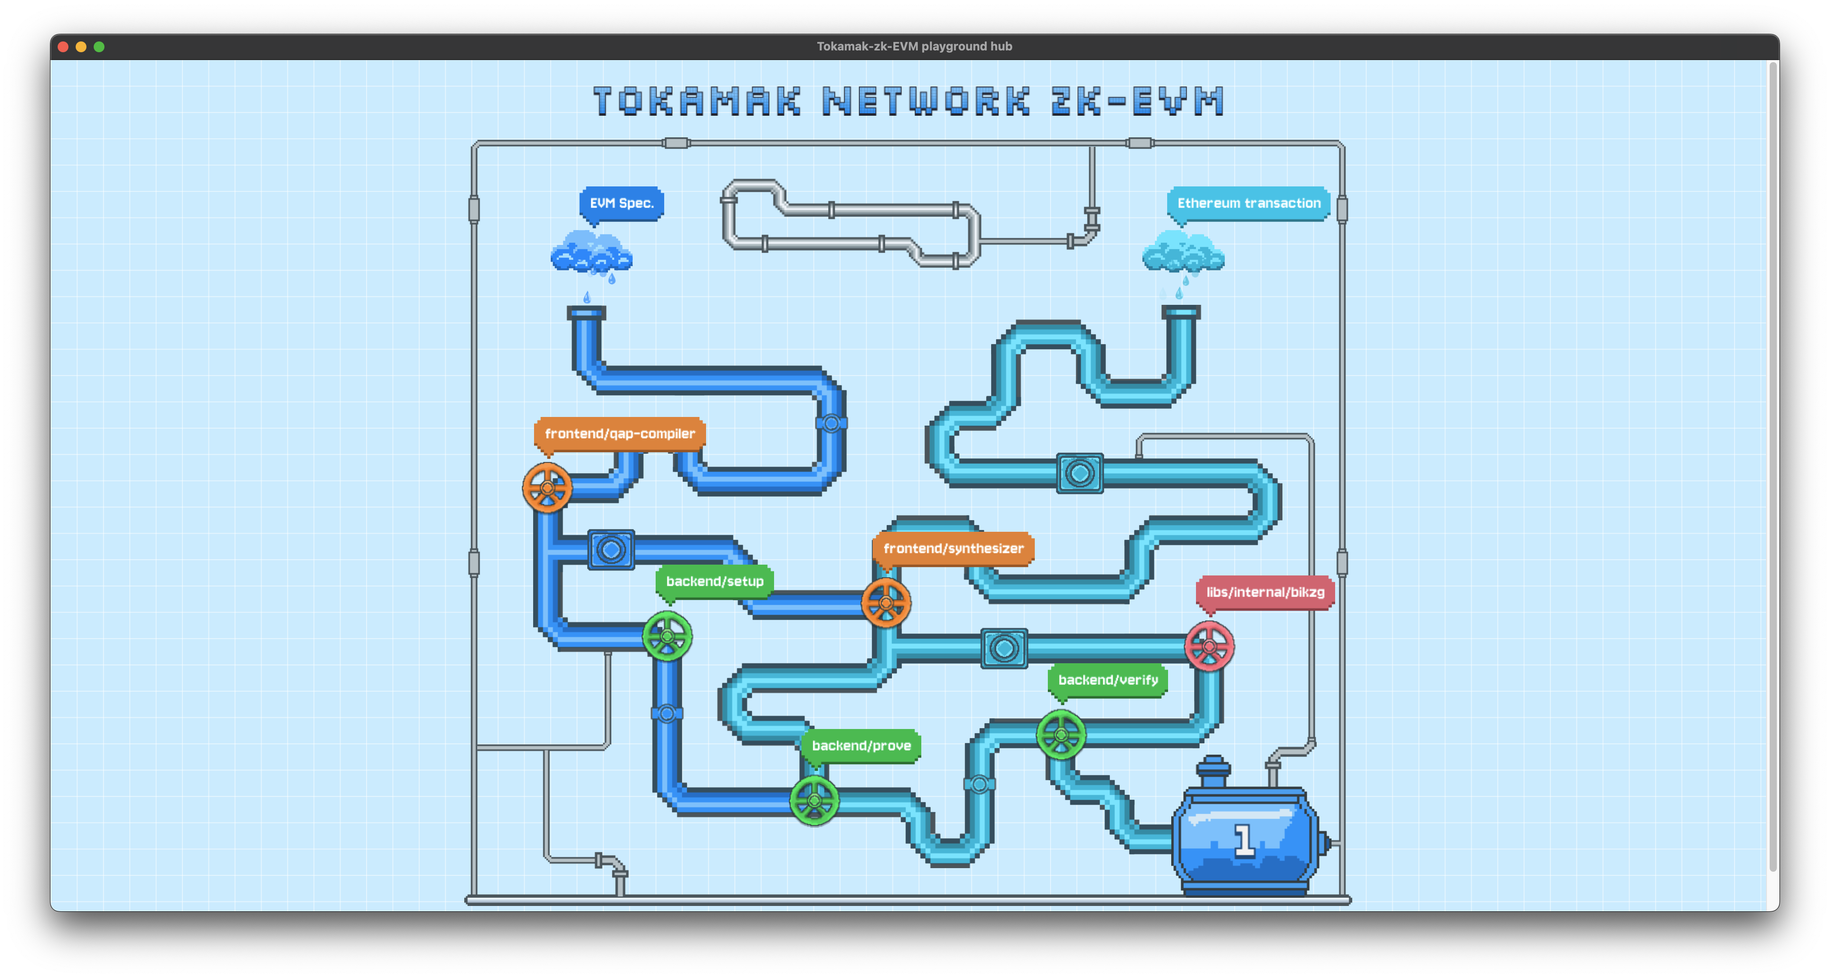
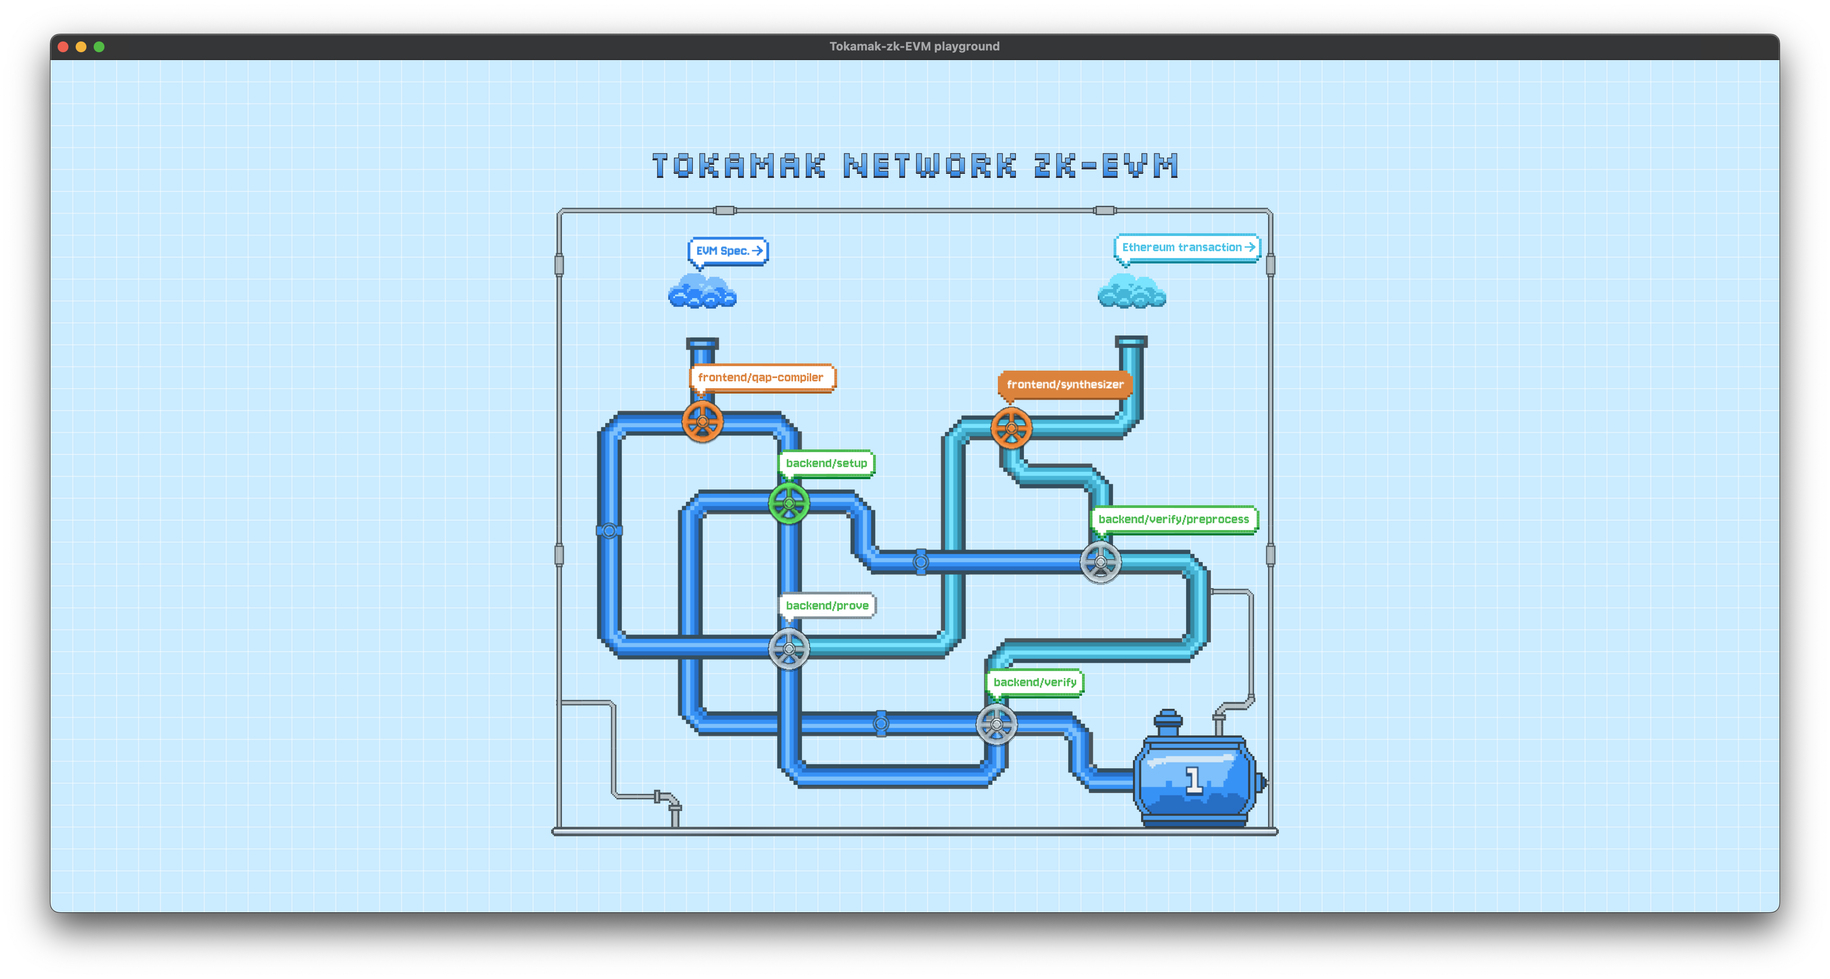
docs: Update README files with new content and images
Updated both the Korean and English README files to reflect the latest UI flow and features of the application.

- **Key Changes:**
  - Overhauled the "How to Use the Program" section to match the new operational sequence.
  - Added new screenshots and enhanced descriptions for features like the loading modal and step-by-step activation order.
  - Refined the overall text to be clearer and easier to follow.

Changed region(s): [[0.25, 0.0308, 0.75, 0.9254], [0.9375, 0.0617, 1.0, 0.9254]]

diff --git a/packages/playground-hub/src/components/animation-pipeline/FillingTank.tsx b/packages/playground-hub/src/components/animation-pipeline/FillingTank.tsx
@@ -27,7 +27,6 @@ export default function FillingTank({
   const active = useMemo(() => {
     return provingIsDone;
   }, [provingIsDone]);
-
   // 애니메이션
   useEffect(() => {
     // active가 true이고 autoFill이 true이며 이미지가 로드되었을 때만 애니메이션 실행
@@ -78,7 +77,7 @@ export default function FillingTank({
 
   return (
     <div
-      className="absolute max-w-full max-h-full object-contain top-[697px] right-[109px] flex items-end justify-end overflow-hidden z-[2]"
+      className="absolute max-w-full max-h-full object-contain top-[695px] right-[111px] flex items-end justify-end overflow-hidden z-[2]"
       style={{ background: "transparent" }}
     >
       <img

diff --git a/packages/playground-hub/src/components/Bubble.tsx b/packages/playground-hub/src/components/Bubble.tsx
@@ -28,7 +28,7 @@ import {
   usePlaygroundStage,
   usePlaygroundStartStage,
 } from "../hooks/usePlaygroundStage";
-import bubbleEvmInactive from "../assets/images/bubbles/bubble-evm-inactive.svg";
+import bubbleEvmInactive from "../assets/images/bubbles/bubble-evm-inactive.png";
 import bubbleTransactionInactive from "../assets/images/bubbles/bubble-transaction-inactive.svg";
 import { useModals } from "../hooks/useModals";
 
@@ -112,6 +112,7 @@ export default function Bubbles() {
   } = usePlaygroundStage();
   const { playgroundStartStage } = usePlaygroundStartStage();
   const { openModal } = useModals();
+
   return (
     <div className="w-full h-full absolute">
       <Bubble

diff --git a/packages/playground-hub/src/hooks/usePlaygroundStage.ts b/packages/playground-hub/src/hooks/usePlaygroundStage.ts
@@ -48,7 +48,7 @@ export function usePlaygroundStage() {
 
   const bikzgStage = useMemo(() => {
     return {
-      isReady: playgroundStage.synthesizer,
+      isReady: playgroundStage.synthesizer && playgroundStage.setup,
       isDone: playgroundStage.bikzg,
     };
   }, [playgroundStage]);

diff --git a/packages/playground-hub/README-ko.md b/packages/playground-hub/README-ko.md
@@ -80,33 +80,33 @@
    ![프로그램 실행 초기 화면](./assets/images/5-4.png)
 5. 클릭 이후 모달이 자동으로 닫히며 구름에서 시작된 파이프라인을 채우는 애니메이션이 다음 단계를 향하기 시작합니다. 해당 애니메이션은 다음 스텝에 해당하는 핸들 부분에 도착하면 종료가 되며, 비활성화돼있던 **frontend/qap-compiler** 말머리 컬러가 활성화되며 해당 스텝이 실행 준비가 됐음을 나타냅니다.
    ![프로그램 실행 초기 화면](./assets/images/5-5.png)
-6. 같은 흐름으로 EVM Transaction을 세팅해보도록 하겠습니다. EVM Spec과 마찬가지로 **Ethereum transaction** 말머리 아래에 위치한 구름을 클릭하면 다음과 같은 모달이 나타납니다. 해당 모달의 입력 영역에는 앞 서 선택한 EVM Spec이 지원하는 성격의 이더리움 트랜잭션 해쉬값을 넣어주어야 합니다.(본 설명은 선택한 Tokamak-zk-EVM이 TON 토큰의 Transfer 함수만 지원한다는 것을 가정하고 설명하겠습니다.)
+6. 같은 흐름으로 EVM Transaction을 세팅해보도록 하겠습니다. EVM Spec과 마찬가지로 **Ethereum transaction** 말머리 아래에 위치한 구름을 클릭하면 다음과 같은 모달이 나타납니다. 해당 모달의 입력 영역에는 앞 서 선택한 EVM Spec이 지원하는 성격의 이더리움 트랜잭션 해쉬값을 넣어주어야 합니다.[이더스캔 페이지](https://etherscan.io/)로 접속을 합니다.
    ![프로그램 실행 초기 화면](./assets/images/5-6.png)
-7. 이더스캔에서 토카막 네트워크 토큰의 트랜잭션을 보여주는 [페이지](https://etherscan.io/token/0x2be5e8c109e2197D077D13A82dAead6a9b3433C5)로 접속을 합니다.
-   ![프로그램 실행 초기 화면](./assets/images/5-7.png)
-8. Method 영역을 통해 각 트랜잭션이 어떤 기능을 수행하기 위해 실행되었는지 확인할 수 있습니다. 이를 통해 **Transfer** 에 해당하는 트랜잭션들을 분류할 수 있습니다.
-   ![프로그램 실행 초기 화면](./assets/images/5-8.png)
-9. Tokamak-zk-EVM을 통해 확인하고 싶은 트랜잭션을 발견하면 Transaction Hash 오른쪽에 위치한 복사 버튼을 통해 해당 트랜잭션의 해쉬 값을 복사합니다.
+7. Tokamak-zk-EVM을 통해 확인하고 싶은 트랜잭션을 발견하면 Transaction Hash 오른쪽에 위치한 복사 버튼을 통해 해당 트랜잭션의 해쉬 값을 복사합니다.
    ![프로그램 실행 초기 화면](./assets/images/5-9.png)
-10. 복사한 해쉬 값을 모달의 입력 영역에 붙여넣기하고 해당 트랜잭션 해쉬가 현재 Tokamak-zk-EVM으로 증명할 수 있는 트랜잭션이면 다음과 같이 Input 버튼이 활성화가 됩니다.
-    ![프로그램 실행 초기 화면](./assets/images/5-10.png)
-    10-1. 혹시 복사한 해쉬값이 올바르지 않으면 다음과 같은 에러가 나타나며 Input 버튼이 활성화되지 않습니다. 기타 다른 문제들의 경우에도 버튼이 활성화되지않으며 각 문제에 해당하는 메세지가 동일한 영역에 노출되게 됩니다.  
-    ![프로그램 실행 초기 화면](./assets/images/5-11.png)
-11. Input 버튼이 활성화된 상태에서 버튼을 클릭하면 모달이 닫히며 이전과 같은 형태의 애니메이션이 시작됩니다. fontend/synthesizer의 경우, 방금 작동시킨 이더리움 트랜잭션과 frontend/qap-compiler의 작동이 모두 필요하기에 비활성화된 모습을 볼 수 있습니다. frontend/synthesizer를 작동시키기 위해 먼저 활성화가 되어있는 frontend/qap-compiler의 핸들 부분을 클릭해 실행하도록 하겠습니다.
-    ![프로그램 실행 초기 화면](./assets/images/5-12.png)
-12. frontend/qap-compiler의 실행이 완료되면 **frontend/synthesizer**와 **backend/setup**이 모두 활성화된 것을 보실 수 있습니다. 활성화된 핸들들은 어떤 것을 먼저 실행해도 무방합니다. 이 문서에는 frontend/synthesizer를 먼저 실행해보도록 하겠습니다.
+8. 복사한 해쉬 값을 모달의 입력 영역에 붙여넣기하고 해당 트랜잭션 해쉬가 현재 Tokamak-zk-EVM으로 증명할 수 있는 트랜잭션이면 다음과 같이 Input 버튼이 활성화가 됩니다.
+   ![프로그램 실행 초기 화면](./assets/images/5-10.png)
+   8-1. 혹시 복사한 해쉬값이 올바르지 않으면 다음과 같은 에러가 나타나며 Input 버튼이 활성화되지 않습니다. 기타 다른 문제들의 경우에도 버튼이 활성화되지않으며 각 문제에 해당하는 메세지가 동일한 영역에 노출되게 됩니다.  
+   ![프로그램 실행 초기 화면](./assets/images/5-11.png)
+9. Input 버튼이 활성화된 상태에서 버튼을 클릭하면 모달이 닫히며 이전과 같은 형태의 애니메이션이 시작됩니다. 애니메이션이 완료되면 frontend/qap-compiler와 frontend/synthesizer의 핸들들이 모두 활성화된 것을 보실 수 있습니다. 활성화 된 핸들은 어떤 것을 먼저 실행해도 무방합니다. 이 문서에서는 qap-compiler를 먼저 실행해보도록 하겠습니다.
+   ![프로그램 실행 초기 화면](./assets/images/5-12.png)
+10. frontend/qap-compiler의 실행이 완료되면 **frontend/synthesizer**와 **backend/setup**이 모두 활성화된 것을 보실 수 있습니다. 이어서 frontend/synthesizer를 먼저 실행해보겠습니다. (실행에 다소 시간이 걸리는 프로세스들의 경우, 아래와 같은 로딩 모달이 나타나며 해당 프로세스 처리가 모두 완료될 경우 자동으로 모달이 닫히며 애니메이션 재생이 계속 됩니다.)
     ![프로그램 실행 초기 화면](./assets/images/5-13.png)
-13. frontend/synthesizer의 실행이 끝나면 **libs/internal/bikzg**가 활성화 됐음을 볼 수 있습니다. 해당 부분의 실행에 앞 서 backend/setup 쪽을 먼저 진행하도록 하겠습니다. 다시 한 번 말하지만 활성화된 핸들은 순서와 무관하게 실행할 수 있으므로 libs/internal/bikzg를 먼저 실행해보고 싶다면 실행해도 무방합니다.
+    ![프로그램 로딩 화면](./assets/images/5-13-1.png)
+11. frontend/synthesizer의 실행이 끝나면 그 이후 단계들은 **backend/setup**이 함께 이루어져야 함을 파이프라인들을 통해 유추할 수 있습니다. 현재 유일하게 활성화 된 backend/setup 쪽을 먼저 진행하도록 하겠습니다.
     ![프로그램 실행 초기 화면](./assets/images/5-14.png)
-14. backend/setup이 완료되면 **backend/prove**가 활성화됩니다. 실제로 이 setup에 해당하는 프로세스는 상당한 시간이 소요되나, 앞에서 다운로드 받은 도커 이미지를 통해 해당 셋업이 모두 이루어져 있는 상태입니다. 그렇기에 플레이그라운드 내에서는 시간이 거의 소요되지 않으며 빠르게 실행이 완료되는 모습을 확인하실 수 있습니다.
+12. backend/setup이 완료되면 **backend/prove**가 활성화됩니다. 실제로 이 setup에 해당하는 프로세스는 상당한 시간이 소요되나, 앞에서 다운로드 받은 도커 이미지를 통해 해당 셋업이 모두 이루어져 있는 상태입니다. 그렇기에 플레이그라운드 내에서는 시간이 거의 소요되지 않으며 빠르게 실행이 완료되는 모습을 확인하실 수 있습니다.
     ![프로그램 실행 초기 화면](./assets/images/5-15.png)
-15. backend/setup이 완료되면 최종 액션인 Verify 실행을 위한 두 가지 패키지 모두 실행 준비 되었음을 확인할 수 있습니다. 먼저 libs/internal/bikzg를 실행합니다.
+13. backend/setup이 완료되면 최종 액션인 Verify 실행을 위한 두 가지 패키지 모두 실행 준비 되었음을 확인할 수 있습니다. 먼저 backend/preprocess를 실행합니다.
+    ![프로그램 로딩 화면](./assets/images/5-16-1.png)
     ![프로그램 실행 초기 화면](./assets/images/5-16.png)
-16. 이어서 backend/prove를 실행하면 다음과 같이 **backend/verify**가 활성화됩니다. prove를 작동시키면 앞에서 저희가 선택한 이더리움의 트랜잭션이 Tokamak-zk-EVM을 통해 어떻게 분석이 되는지 최종 결과를 확인할 수 있습니다.
+14. 이어서 backend/prove를 실행하면 다음과 같이 **backend/verify**가 활성화됩니다. verify를 작동시키면 앞에서 저희가 선택한 이더리움의 트랜잭션이 Tokamak-zk-EVM을 통해 어떻게 분석이 되는지 최종 결과를 확인할 수 있습니다.
+    ![프로그램 로딩 화면](./assets/images/5-17-1.png)
     ![프로그램 실행 초기 화면](./assets/images/5-17.png)
-17. backend/prove의 작동이 끝나면 이전에 생성한 증거와 이를 검증한 결과에 따라 물탱크가 변하게 됩니다. 앞에서 증거를 올바로 생성했고 검증이 제대로 이루어지면 True를 의미하는 **1**이라는 숫자와 함께 파란색의 물로 물탱크가 채워집니다. 이는 Tokamak-zk-EVM이 올바로 작동했음을 나타냅니다.
+15. backend/prove의 작동이 끝나면 이전에 생성한 증거와 이를 검증한 결과에 따라 물탱크가 변하게 됩니다. 앞에서 증거를 올바로 생성했고 검증이 제대로 이루어지면 True를 의미하는 **1**이라는 숫자와 함께 파란색의 물로 물탱크가 채워집니다. 이는 Tokamak-zk-EVM이 올바로 작동했음을 나타냅니다.
     ![프로그램 실행 초기 화면](./assets/images/5-18.png)
-    17-1. 혹시나 올바르게 작동하지 않았거나 문제가 생겼을 경우 False를 의미하는 0과 함께 하얀색으로 탱크가 채워질 것입니다. 해당하는 경우에는 Tokamak-zk-EVM에 문제가 있을 수 있으므로, 아래 6번 섹션을 활용해 제보를 부탁드립니다!
+    15-1. 혹시나 올바르게 작동하지 않았거나 문제가 생겼을 경우 False를 의미하는 0과 함께 하얀색으로 탱크가 채워질 것입니다. 해당하는 경우에는 Tokamak-zk-EVM에 문제가 있을 수 있으므로, 아래 6번 섹션을 활용해 제보를 부탁드립니다!
+    ![결과가 false인 화면](./assets/images/5-18-1.png)
 
 ## 6. 문제가 생겼나요? (간단한 문제 해결) 🤔
 

diff --git a/packages/synthesizer-playground/README.md b/packages/synthesizer-playground/README.md
@@ -31,12 +31,14 @@ This tool is particularly useful for developers working with the Tokamak ZK-EVM 
 ## Installation
 
 1. Clone the repository:
+
    ```bash
    git clone https://github.com/tokamak-network/tokamak-zk-evm-playgrounds.git
    cd tokamak-zk-evm-playgrounds/packages/synthesizer-playground
    ```
 
 2. Install dependencies:
+
    ```bash
    npm install
    ```
@@ -52,6 +54,7 @@ This tool is particularly useful for developers working with the Tokamak ZK-EVM 
 The application consists of two parts: a Next.js frontend and an Express server for handling the Synthesizer operations.
 
 1. Start the Express server and develop server with a single command:
+
    ```bash
    npm run start:dev
    ```
@@ -66,6 +69,46 @@ The application consists of two parts: a Next.js frontend and an Express server 
    - **Storage Load**: Shows all storage slots read during execution
    - **Logs**: Displays event logs emitted during execution
    - **Storage Store**: Shows all storage slots written during execution
+
+## 5. How to Use the Program (Brief Introduction) 📖
+
+1. If the program runs successfully, you will see a screen like this.
+   ![Program Initial Screen](./assets/images/5-1.png)
+2. Click the cloud located under the **EVM Spec.** heading in the top left corner to display a modal screen like this.  
+   ![Program Initial Screen](./assets/images/5-2.png)
+3. This modal allows you to select one of the various Tokamak-zk-EVM specs supported by the playground. Click the download button to the right of the title to start downloading the Docker image for that spec.
+   ![Program Initial Screen](./assets/images/5-3.png)
+4. Once the download is complete, the download button icon will change to a check icon, indicating that the image is ready. Clicking the Tokamak-zk-EVM text in this state will proceed to the next step.  
+   ![Program Initial Screen](./assets/images/5-4.png)
+5. After clicking, the modal will automatically close, and an animation filling the pipeline will start. The animation will stop when it reaches the handle for the next step, and the previously inactive **frontend/qap-compiler** heading will become colored, indicating it is ready for execution.
+   ![Program Initial Screen](./assets/images/5-5.png)
+6. Let's set up the EVM Transaction in the same flow. Similar to the EVM Spec, click the cloud under the **Ethereum transaction** heading to open a modal. In this modal's input area, you need to enter the hash of an Ethereum transaction that matches the characteristics supported by the previously selected EVM Spec. Go to the [Etherscan page](https://etherscan.io/).
+   ![Program Initial Screen](./assets/images/5-6.png)
+7. Find a transaction you want to verify through the Tokamak-zk-EVM and copy its hash value using the copy button next to the Transaction Hash.
+   ![Program Initial Screen](./assets/images/5-9.png)
+8. Paste the copied hash value into the modal's input area. If the transaction hash is provable by the current Tokamak-zk-EVM, the Input button will be activated as follows.
+   ![Program Initial Screen](./assets/images/5-10.png)
+   8-1. If the copied hash value is incorrect, an error like this will appear, and the Input button will not be activated. For any other issues, the button will also remain inactive, and a message corresponding to the problem will be displayed in the same area.  
+   ![Program Initial Screen](./assets/images/5-11.png)
+9. When the Input button is activated, click it to close the modal, and an animation similar to the previous one will start. Once the animation is complete, you will see that the handles for both frontend/qap-compiler and frontend/synthesizer are activated. You can execute the activated handles in any order. In this guide, we will execute qap-compiler first.
+   ![Program Initial Screen](./assets/images/5-12.png)
+10. Once frontend/qap-compiler has finished, you will see that both **frontend/synthesizer** and **backend/setup** are activated. Next, let's run frontend/synthesizer. (For processes that take some time to execute, a loading modal like the one below will appear. When the process is complete, the modal will automatically close, and the animation will continue.)
+    ![Program Initial Screen](./assets/images/5-13.png)
+    ![Program Loading Screen](./assets/images/5-13-1.png)
+11. After frontend/synthesizer finishes, you can infer from the pipelines that **backend/setup** must also be completed. Let's proceed with the only activated part, backend/setup.
+    ![Program Initial Screen](./assets/images/5-14.png)
+12. Once backend/setup is complete, **backend/prove** is activated. The actual setup process takes a considerable amount of time, but it is already complete within the Docker image you downloaded earlier. Therefore, it runs very quickly inside the playground.
+    ![Program Initial Screen](./assets/images/5-15.png)
+13. Once backend/setup is complete, both packages required for the final action, Verify, are ready for execution. First, run backend/preprocess.
+    ![Program Loading Screen](./assets/images/5-16-1.png)
+    ![Program Initial Screen](./assets/images/5-16.png)
+14. Next, run backend/prove, and you will see **backend/verify** become activated. By running verify, you can see the final result of how the Ethereum transaction you selected is analyzed by the Tokamak-zk-EVM.
+    ![Program Loading Screen](./assets/images/5-17-1.png)
+    ![Program Initial Screen](./assets/images/5-17.png)
+15. After backend/prove completes, the water tank will change based on the generated proof and its verification result. If the proof was generated correctly and verified successfully, the tank will fill with blue water along with the number **1**, signifying "True". This indicates that the Tokamak-zk-EVM has operated correctly.
+    ![Program Initial Screen](./assets/images/5-18.png)
+    15-1. If it did not operate correctly or an issue occurred, the tank will fill with white water along with the number 0, signifying "False". In this case, there may be an issue with the Tokamak-zk-EVM, so please report it using Section 6 below!
+    ![Result False Screen](./assets/images/5-18-1.png)
 
 ## Acknowledgements
 

diff --git a/packages/playground-hub/READMD.md b/packages/playground-hub/READMD.md
@@ -80,14 +80,17 @@ Hello! This document guides you on how to install and run **Tokamak-zk-evm-playg
    ![Program Initial Screen](./assets/images/5-4.png)
 5. After clicking, the modal automatically closes, and an animation begins to fill the pipeline starting from the cloud towards the next step. The animation ends when it reaches the handle part of the next step, and the color of the previously inactive **frontend/qap-compiler** heading is activated, indicating that the step is ready to be executed.
    ![Program Initial Screen](./assets/images/5-5.png)
-6. Let's set up the EVM Transaction in the same flow. Like EVM Spec, click the cloud located under the **Ethereum transaction** heading to display a modal like this. In the input area of this modal, you need to enter the Ethereum transaction hash value that matches the nature supported by the previously selected EVM Spec. (This explanation assumes that the selected Tokamak-zk-EVM only supports the Transfer function of the TON token.)
+6. Let's set up the EVM Transaction in the same flow. Click the cloud located under the **Ethereum transaction** heading to display a modal where you can input a transaction hash.
    ![Program Initial Screen](./assets/images/5-6.png)
-7. Access the [page](https://etherscan.io/token/0x2be5e8c109e2197D077D13A82dAead6a9b3433C5) showing transactions of the Tokamak Network token on Etherscan.
+7. Go to the [Etherscan page](https://etherscan.io/).
    ![Program Initial Screen](./assets/images/5-7.png)
-8. You can check what function each transaction was executed for through the Method area. This allows you to classify transactions corresponding to **Transfer**.
-   ![Program Initial Screen](./assets/images/5-8.png)
+8. Find a transaction you want to verify through the Tokamak-zk-EVM and copy its hash value using the copy button next to the Transaction Hash.
+   ![Program Initial Screen](./assets/images/5-9.png)
+
 9. When you find a transaction you want to verify through Tokamak-zk-EVM, use the copy button located to the right of the Transaction Hash to copy the hash value of the transaction.
    ![Program Initial Screen](./assets/images/5-9.png)
+   9-1. If the copied hash value is incorrect, an error like this will appear, and the Input button will not be activated. For any other issues, the button will also remain inactive, and a message corresponding to the problem will be displayed in the same area.  
+    ![Program Initial Screen](./assets/images/5-11.png)
 10. Paste the copied hash value into the input area of the modal, and if the transaction hash can be proven by the current Tokamak-zk-EVM, the Input button will be activated as follows.
     ![Program Initial Screen](./assets/images/5-10.png)
     10-1. If the copied hash value is incorrect, an error like this will appear, and the Input button will not be activated. In other cases of issues, the button will not be activated, and a message corresponding to each issue will be displayed in the same area.  
